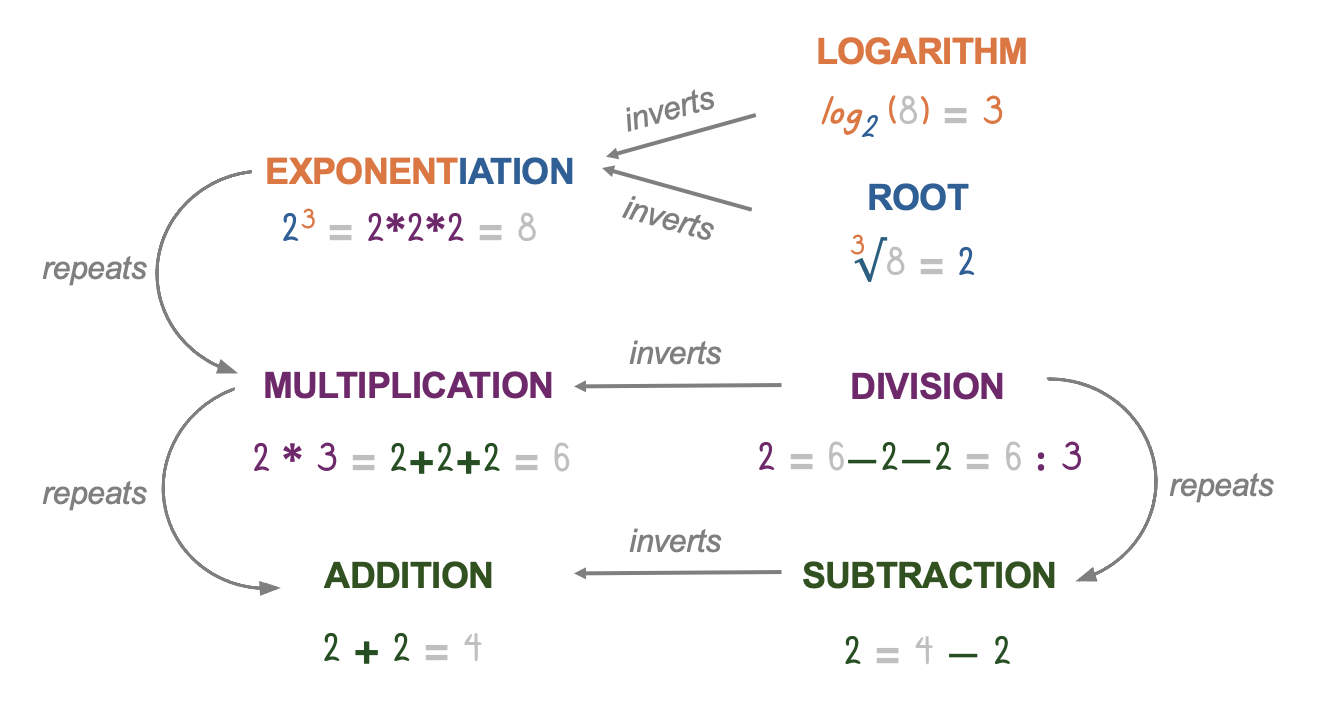
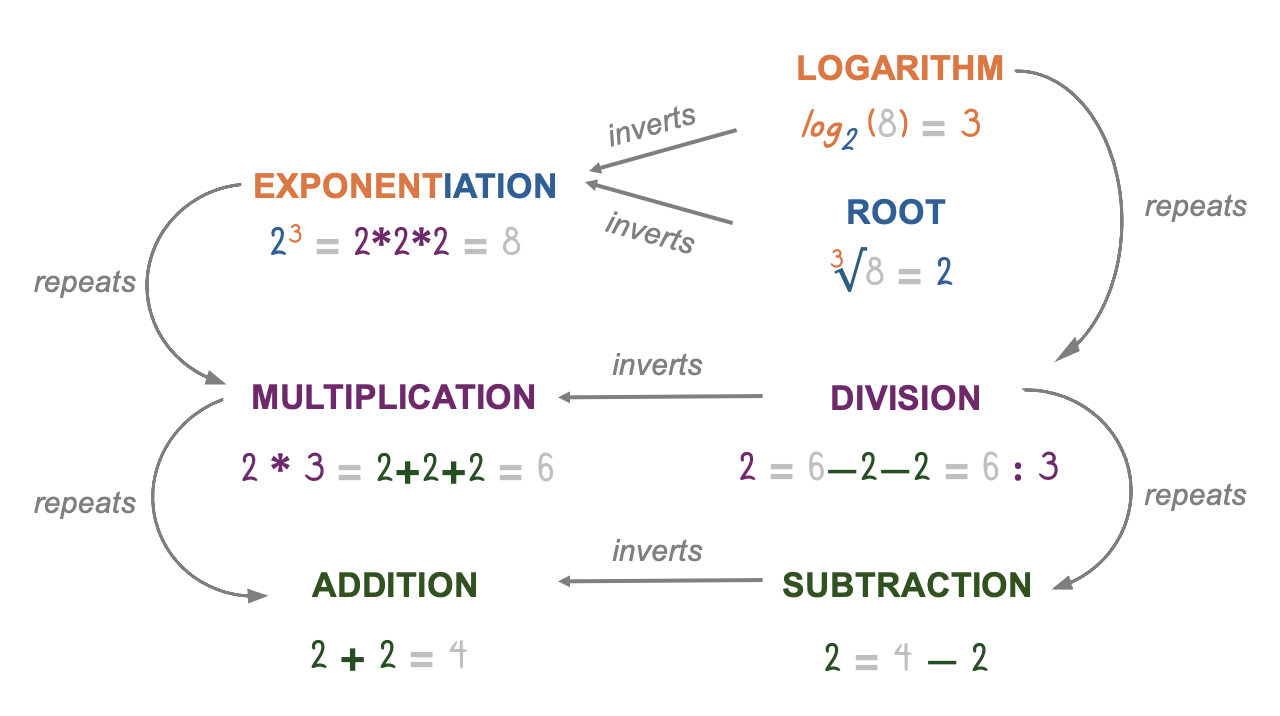
update

diff --git a/mathematics.md b/mathematics.md
@@ -270,11 +270,13 @@ Taking a _base_ number to an _exponent_ just means that we multiply the base num
 
 Why two inverses then? Well, exponentiation has two parts: the **base** and the **exponent**. So, we need two operations to find one or the other.  
 
-Root (with the exponent as index/degree) returns the base.  
+**Root (with the exponent as index/degree) returns the base.**  
 
-Logarithm (to that base) returns the exponent.  
+**Logarithm (to that base) returns the exponent.**  
 
 [for natural-number exponents and positive bases.]
+
+The logarithm can also be thought of as repeated division (in that we are counting how many times you can divide by the base before reaching 1).  
 
 % Inversion
 :::{div}
